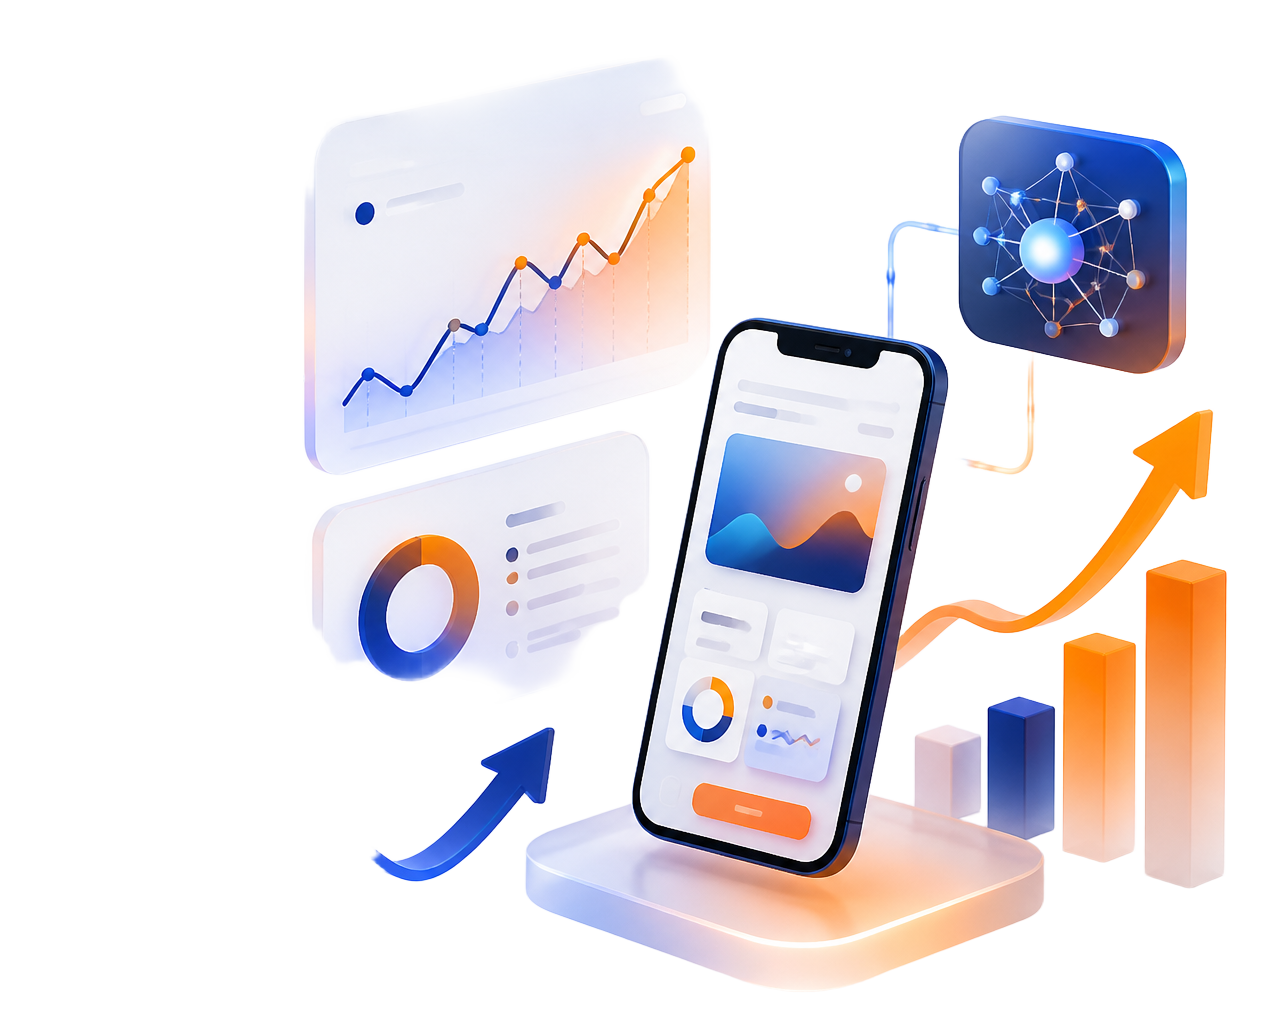
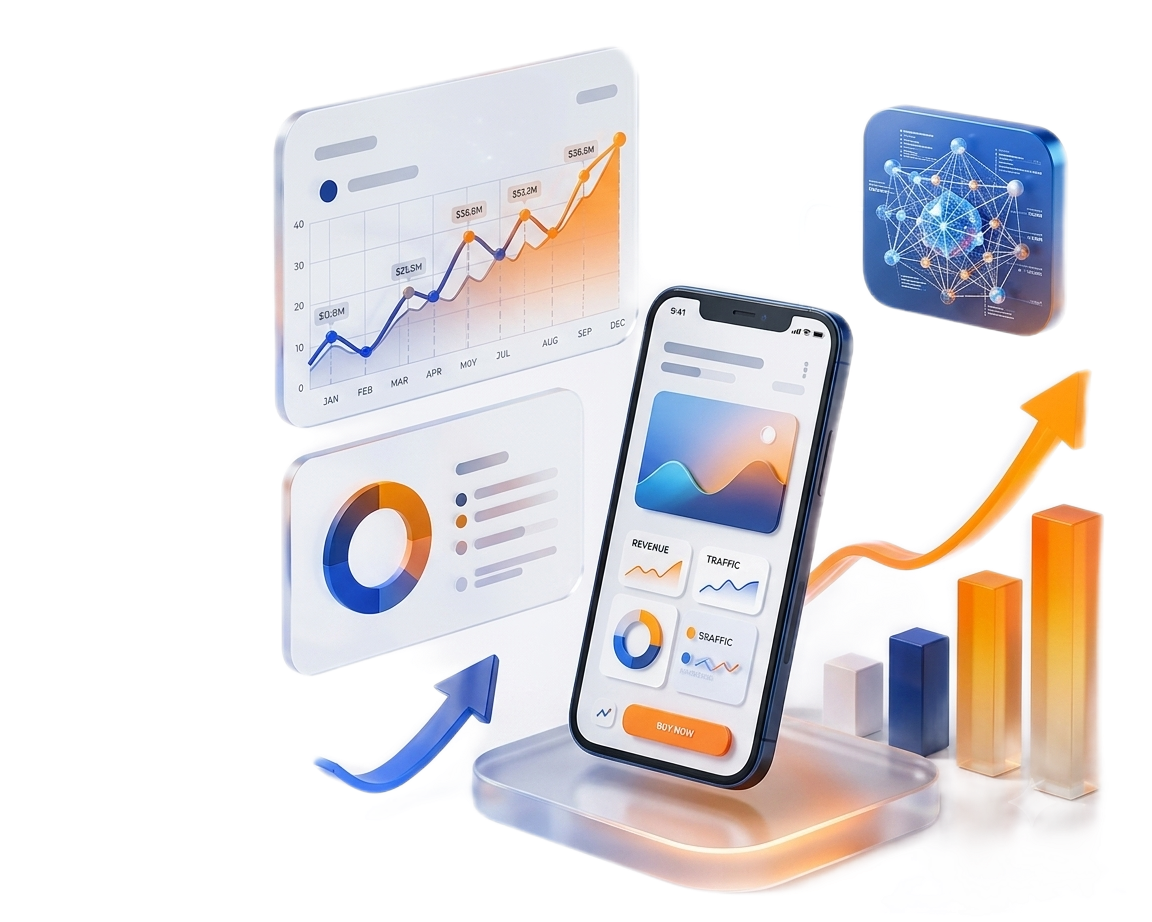
Replace WorkflowIllustration with new image asset in WhyChooseUsSection for enhanced visual representation

Changed region(s): [[0.2188, 0.0911, 0.9688, 0.9718], [0.2188, 0.0304, 0.5625, 0.4859], [0.25, 0.4859, 0.2812, 0.5163]]

diff --git a/src/features/landing/sections/why-choose-us-section.tsx b/src/features/landing/sections/why-choose-us-section.tsx
@@ -1,5 +1,4 @@
-import { SectionHeader } from "@/components/shared/section-header";
-import { WorkflowIllustration } from "@/components/shared/workflow-illustration";
+import whyChooseUsImage from "@/assets/istockphoto-1204743098-612x612.jpg";
 import { WHY_CHOOSE_US } from "@/config/landing-content";
 
 export function WhyChooseUsSection() {
@@ -8,8 +7,14 @@ export function WhyChooseUsSection() {
       <div className="mx-auto grid max-w-7xl items-center gap-12 px-4 sm:px-6 lg:grid-cols-2">
         <div className="relative">
           <div className="absolute inset-0 -z-10 rounded-[36px] bg-[radial-gradient(closest-side,rgba(245,124,0,0.18),transparent_70%)] blur-2xl" />
-          <div className="relative overflow-hidden rounded-3xl border border-border bg-card p-6 shadow-[var(--shadow-card)]">
-            <WorkflowIllustration />
+          <div className="relative overflow-hidden rounded-3xl border border-border bg-card shadow-[var(--shadow-card)]">
+            <img
+              src={whyChooseUsImage}
+              alt="Business handshake over a city skyline representing partnership and growth"
+              width={612}
+              height={612}
+              className="aspect-square w-full object-cover"
+            />
           </div>
         </div>
         <div>